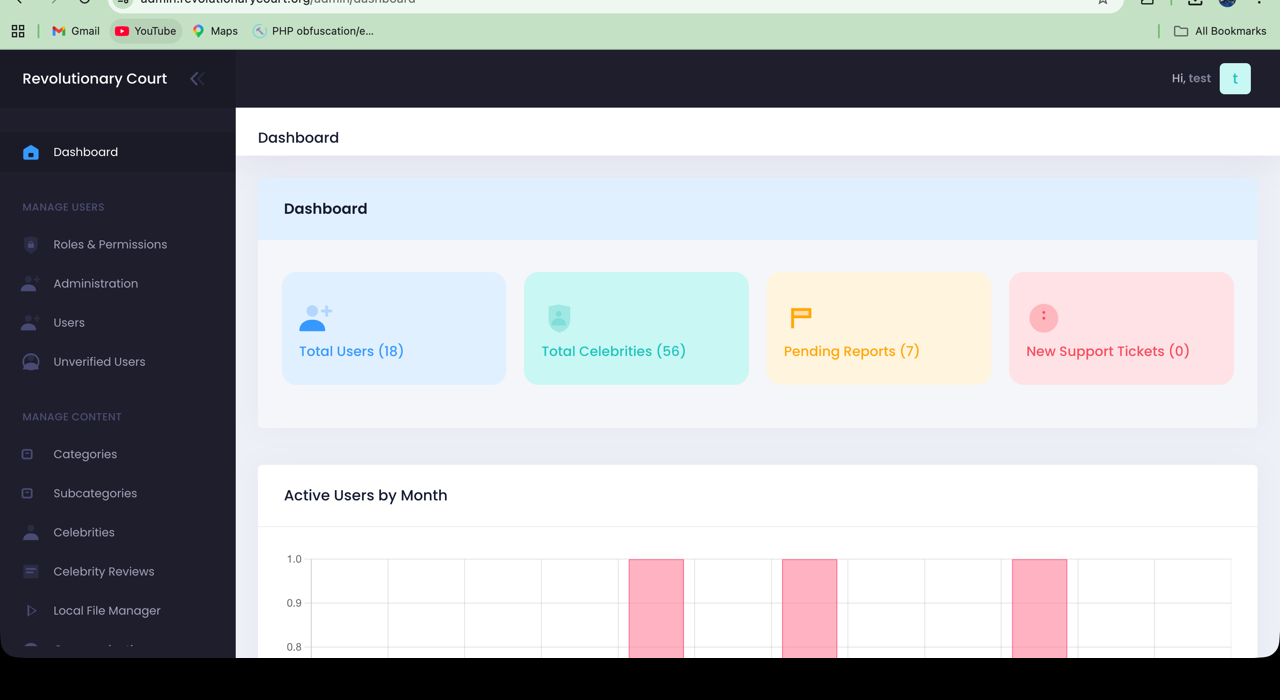
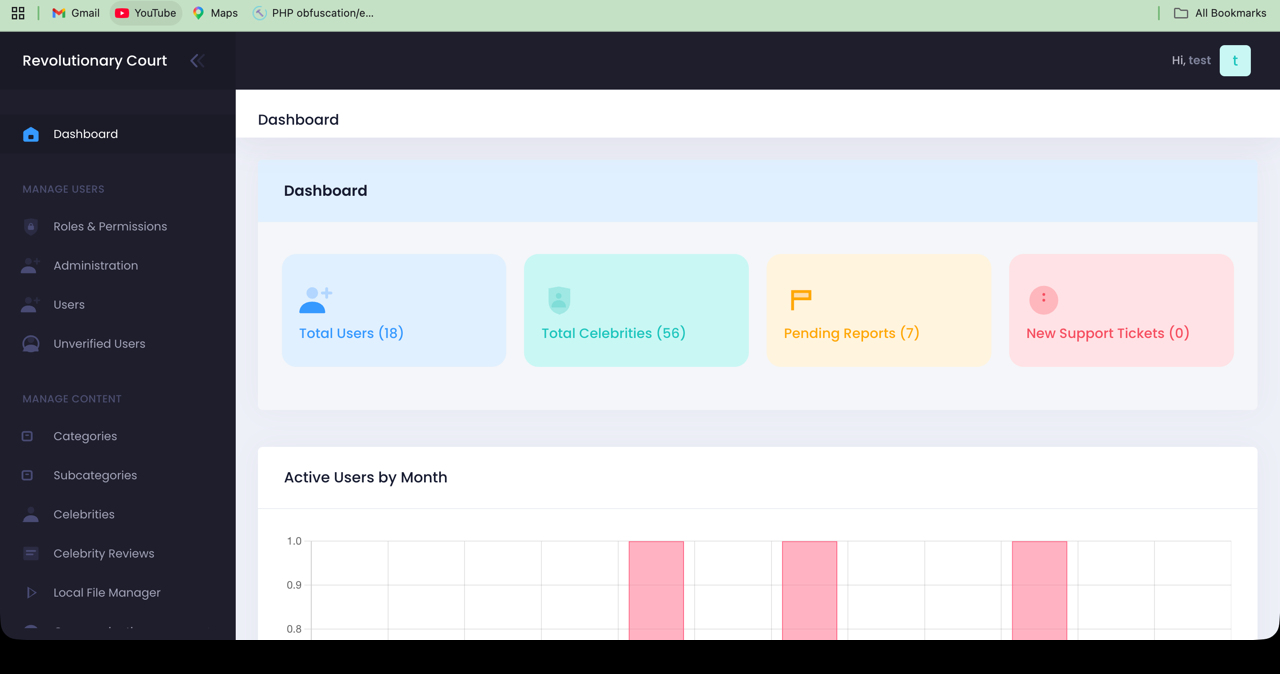
Polish case study presentation and document CI/CD
Drop internal admin/chat URLs, add framed screenshot montages, and describe the GitHub Actions deploy pipelines.

diff --git a/README.md b/README.md
@@ -1,26 +1,21 @@
 # Revolutionary Court — Case Study
 
-Celebrity / public-figure **community platform** with ratings, reviews, realtime chat, mobile apps, a Next.js public site, and a Laravel admin for moderation.
+Celebrity / public-figure **community platform** — ratings, reviews, communities, realtime chat, Flutter apps, a Next.js public site, and a Laravel admin for moderation.
 
-> Portfolio case study — **screenshots + architecture + stack**. Application source is private.
-
----
-
-## Links
-
-| Surface | URL |
-|---------|-----|
-| Public website | https://revolutionarycourt.org |
-| Admin panel | https://admin.revolutionarycourt.org |
-| Realtime chat server | https://chat-server.revolutionarycourt.org |
-| Android app | https://play.google.com/store/apps/details?id=com.revolutionarycourt.app |
-| API base | `https://admin.revolutionarycourt.org/api/v1.0/{locale}/` |
+> Portfolio case study: screenshots + architecture + stack. Application source is private.
 
 ---
 
-## Why this exists
+## Public links
 
-Fans and communities need a focused place to **discover personalities**, join communities, rate/review, and chat — without the noise of a general social network. Ops need tools to curate profiles and moderate reported content at community scope.
+- Website: [revolutionarycourt.org](https://revolutionarycourt.org)
+- Android: [Google Play — Revolutionary Court](https://play.google.com/store/apps/details?id=com.revolutionarycourt.app)
+
+---
+
+## Why this is useful
+
+Fans need a focused place to discover personalities, join communities, rate/review, and chat — without general-social-network noise. Ops need tools to curate profiles and moderate reported content at community scope.
 
 ---
 
@@ -28,41 +23,59 @@ Fans and communities need a focused place to **discover personalities**, join co
 
 | Surface | Role |
 |---------|------|
-| **Flutter mobile app** | Primary user experience — auth, discovery, communities, chat, reviews |
-| **Next.js website** | Marketing + browser discovery (search, spotlights, profiles, i18n) |
-| **Laravel admin + API** | CMS, RBAC, celebrity catalog, reports, settings, REST API for apps |
-| **Node Socket.IO chat server** | Realtime messaging + live moderation push to online clients |
+| **Flutter mobile app** | Primary UX — auth, discovery, communities, chat, reviews |
+| **Next.js website** | Browser discovery — search, spotlights, profiles, i18n |
+| **Laravel admin + API** | CMS, RBAC, celebrity catalog, reports, REST for apps |
+| **Node Socket.IO chat** | Realtime messaging + live moderation push |
 
 ---
 
 ## Screenshots
 
-### Mobile app (Play Store)
+### Mobile app
 
-| | | |
-|--|--|--|
-| Sign in | ![App 1](docs/screenshots/app/01-app.png) | ![App 2](docs/screenshots/app/02-app.png) |
-| Discovery / communities | ![App 3](docs/screenshots/app/03-app.png) | ![App 4](docs/screenshots/app/04-app.png) |
-| Profile / chat flows | ![App 5](docs/screenshots/app/05-app.png) | ![App 6](docs/screenshots/app/06-app.png) |
+Framed Play Store captures — discovery, communities, join/leave, and chat entry points.
 
-### Public website
+<p align="center">
+  <img src="docs/screenshots/app/montage-mobile.png" alt="Revolutionary Court mobile app screens" width="720" />
+</p>
 
-| | |
-|--|--|
-| Home | ![Home](docs/screenshots/web/01-home.png) |
-| About | ![About](docs/screenshots/web/02-about.png) |
-| Celebrity profile | ![Profile](docs/screenshots/web/03-celebrity-profile.png) |
-| Most followed | ![Most followed](docs/screenshots/web/06-most-followed.png) |
-| FAQ | ![FAQ](docs/screenshots/web/04-faq.png) |
-| Contact | ![Contact](docs/screenshots/web/05-contact.png) |
+<details>
+<summary>Individual mobile screens</summary>
+<p>
+<img src="docs/screenshots/app/01-app.png" alt="Sign in" width="180" />
+<img src="docs/screenshots/app/02-app.png" alt="Home discovery" width="180" />
+<img src="docs/screenshots/app/03-app.png" alt="Communities" width="180" />
+<img src="docs/screenshots/app/04-app.png" alt="Profile / feed" width="180" />
+<img src="docs/screenshots/app/05-app.png" alt="Chat / activity" width="180" />
+<img src="docs/screenshots/app/06-app.png" alt="Settings / more" width="180" />
+</p>
+</details>
 
-### Admin
+### Website
 
-| | |
-|--|--|
-| Dashboard | ![Dashboard](docs/screenshots/admin/01-dashboard.png) |
-| Celebrity profiles | ![Celebrities](docs/screenshots/admin/02-celebrities.png) |
-| Content reports / community-scoped blocks | ![Reports](docs/screenshots/admin/03-content-reports.png) |
+Home hero + celebrity profile + most-followed spotlight.
+
+<p align="center">
+  <img src="docs/screenshots/web/montage-web.png" alt="Revolutionary Court website" width="100%" />
+</p>
+
+<details>
+<summary>More website pages</summary>
+
+| Home | About | FAQ | Contact |
+|------|-------|-----|---------|
+| ![Home](docs/screenshots/web/01-home.png) | ![About](docs/screenshots/web/02-about.png) | ![FAQ](docs/screenshots/web/04-faq.png) | ![Contact](docs/screenshots/web/05-contact.png) |
+
+</details>
+
+### Admin panel
+
+Dashboard metrics, celebrity CMS, and community-scoped content reports / moderation blocks.
+
+<p align="center">
+  <img src="docs/screenshots/admin/montage-admin.png" alt="Revolutionary Court admin panel" width="640" />
+</p>
 
 ---
 
@@ -77,17 +90,17 @@ Fans and communities need a focused place to **discover personalities**, join co
 ### Social & realtime
 - In-app / web chat via **Socket.IO**
 - Reactions, followers, unread counts
-- Live moderation events (`user_moderation_update`) when admin blocks chat/comment/review for a community
+- Live moderation events when an admin blocks chat / comment / review for a community
 
 ### Auth & safety
 - Email/password + **Google** + **Apple** Sign-In
 - Content reports (comments, reviews, chat messages)
-- Admin community-scoped Chat / Comment / Review blocks
+- Community-scoped Chat / Comment / Review blocks
 - Multi-locale API (`en`, `es`, `ar`, `zh`, …)
-- Account privacy / delete-account flows for store compliance
+- Privacy / delete-account flows for store compliance
 
 ### Admin / CMS
-- Roles & permissions (Spatie-style RBAC)
+- Roles & permissions (RBAC)
 - Users / unverified users
 - Categories, celebrities, reviews, file manager
 - Content reports queue with pending counts
@@ -95,22 +108,39 @@ Fans and communities need a focused place to **discover personalities**, join co
 
 ---
 
-## Tech stack (actual)
+## CI / CD
 
-| Layer | Technology |
-|-------|------------|
-| Mobile | **Flutter** (Android / iOS) — `com.revolutionarycourt.app` |
-| Public web | **Next.js** (App Router) + **React** + **Tailwind CSS** + React Toastify |
-| Admin UI | **Laravel** Blade + **Metronic** (Bootstrap) admin theme + DataTables |
-| Backend API | **Laravel** REST — `/api/v1.0/{locale}/…`, Bearer token auth |
-| Realtime | **Node.js** + **Socket.IO** chat server (`chat-server.revolutionarycourt.org`) |
-| Auth | Email/password, Google OAuth, Apple identity-token login |
-| Infra | nginx on Ubuntu; uploads served from admin host |
-| i18n | Locale segment in API + web language switcher (EN+) |
+Production deploys run through **GitHub Actions** on push to `main` (plus manual `workflow_dispatch`).
+
+| Pipeline | What it does |
+|----------|----------------|
+| **Backend (Laravel)** | Checkout → `rsync` app to server (exclude `.env`, `vendor`, `storage/uploads`) → remote `composer install` (PHP 8.2) → idempotent `artisan migrate` → caches / permissions |
+| **Frontend (Next.js)** | Build + sync static/SSR app to web host → reload process |
+| **Chat server (Node)** | Sync Socket.IO service → **PM2** restart so realtime moderation stays live |
+
+Concurrency groups avoid overlapping deploys. Uploads / media dirs are excluded from destructive sync so user content is not wiped. Rating-image sync steps are allowed to continue-on-error so a media glitch does not block a code release.
+
+Secrets stay in GitHub Actions (host, path, SSH credentials) — nothing sensitive is in this case-study repo.
 
 ---
 
-## Architecture (high level)
+## Tech stack
+
+| Layer | Technology |
+|-------|------------|
+| Mobile | **Flutter** (Android / iOS) |
+| Public web | **Next.js** (App Router) + **React** + **Tailwind CSS** |
+| Admin UI | **Laravel** Blade + **Metronic** + DataTables |
+| Backend API | **Laravel** REST (`/api/v1.0/{locale}/…`), Bearer / Sanctum-style auth |
+| Realtime | **Node.js** + **Socket.IO** + **PM2** |
+| Auth | Email/password, Google OAuth, Apple identity-token login |
+| CI/CD | **GitHub Actions** → SSH/`rsync` → composer / migrate / PM2 |
+| Infra | nginx / Ubuntu |
+| i18n | Locale segment in API + web language switcher |
+
+---
+
+## Architecture
 
 ```
 Flutter app  ──┐
@@ -119,11 +149,13 @@ Next.js site ──┘         │
                          ├──► MySQL (users, celebrities, reviews, reports, …)
                          └──► Socket.IO chat server  ◄── realtime clients
 Admin panel  ──────────► same Laravel app (session + Metronic UI)
+
+GitHub Actions (main) ──► rsync / composer / migrate / PM2 per surface
 ```
 
 ---
 
 ## Notes
 
-- This repository is a **case study** for portfolio review (UI + stack documentation).
-- Production source remains private; no application secrets or seed credentials are included here.
+- Case study only — no application source or secrets in this repo.
+- Internal admin / chat hostnames intentionally omitted from public links.
